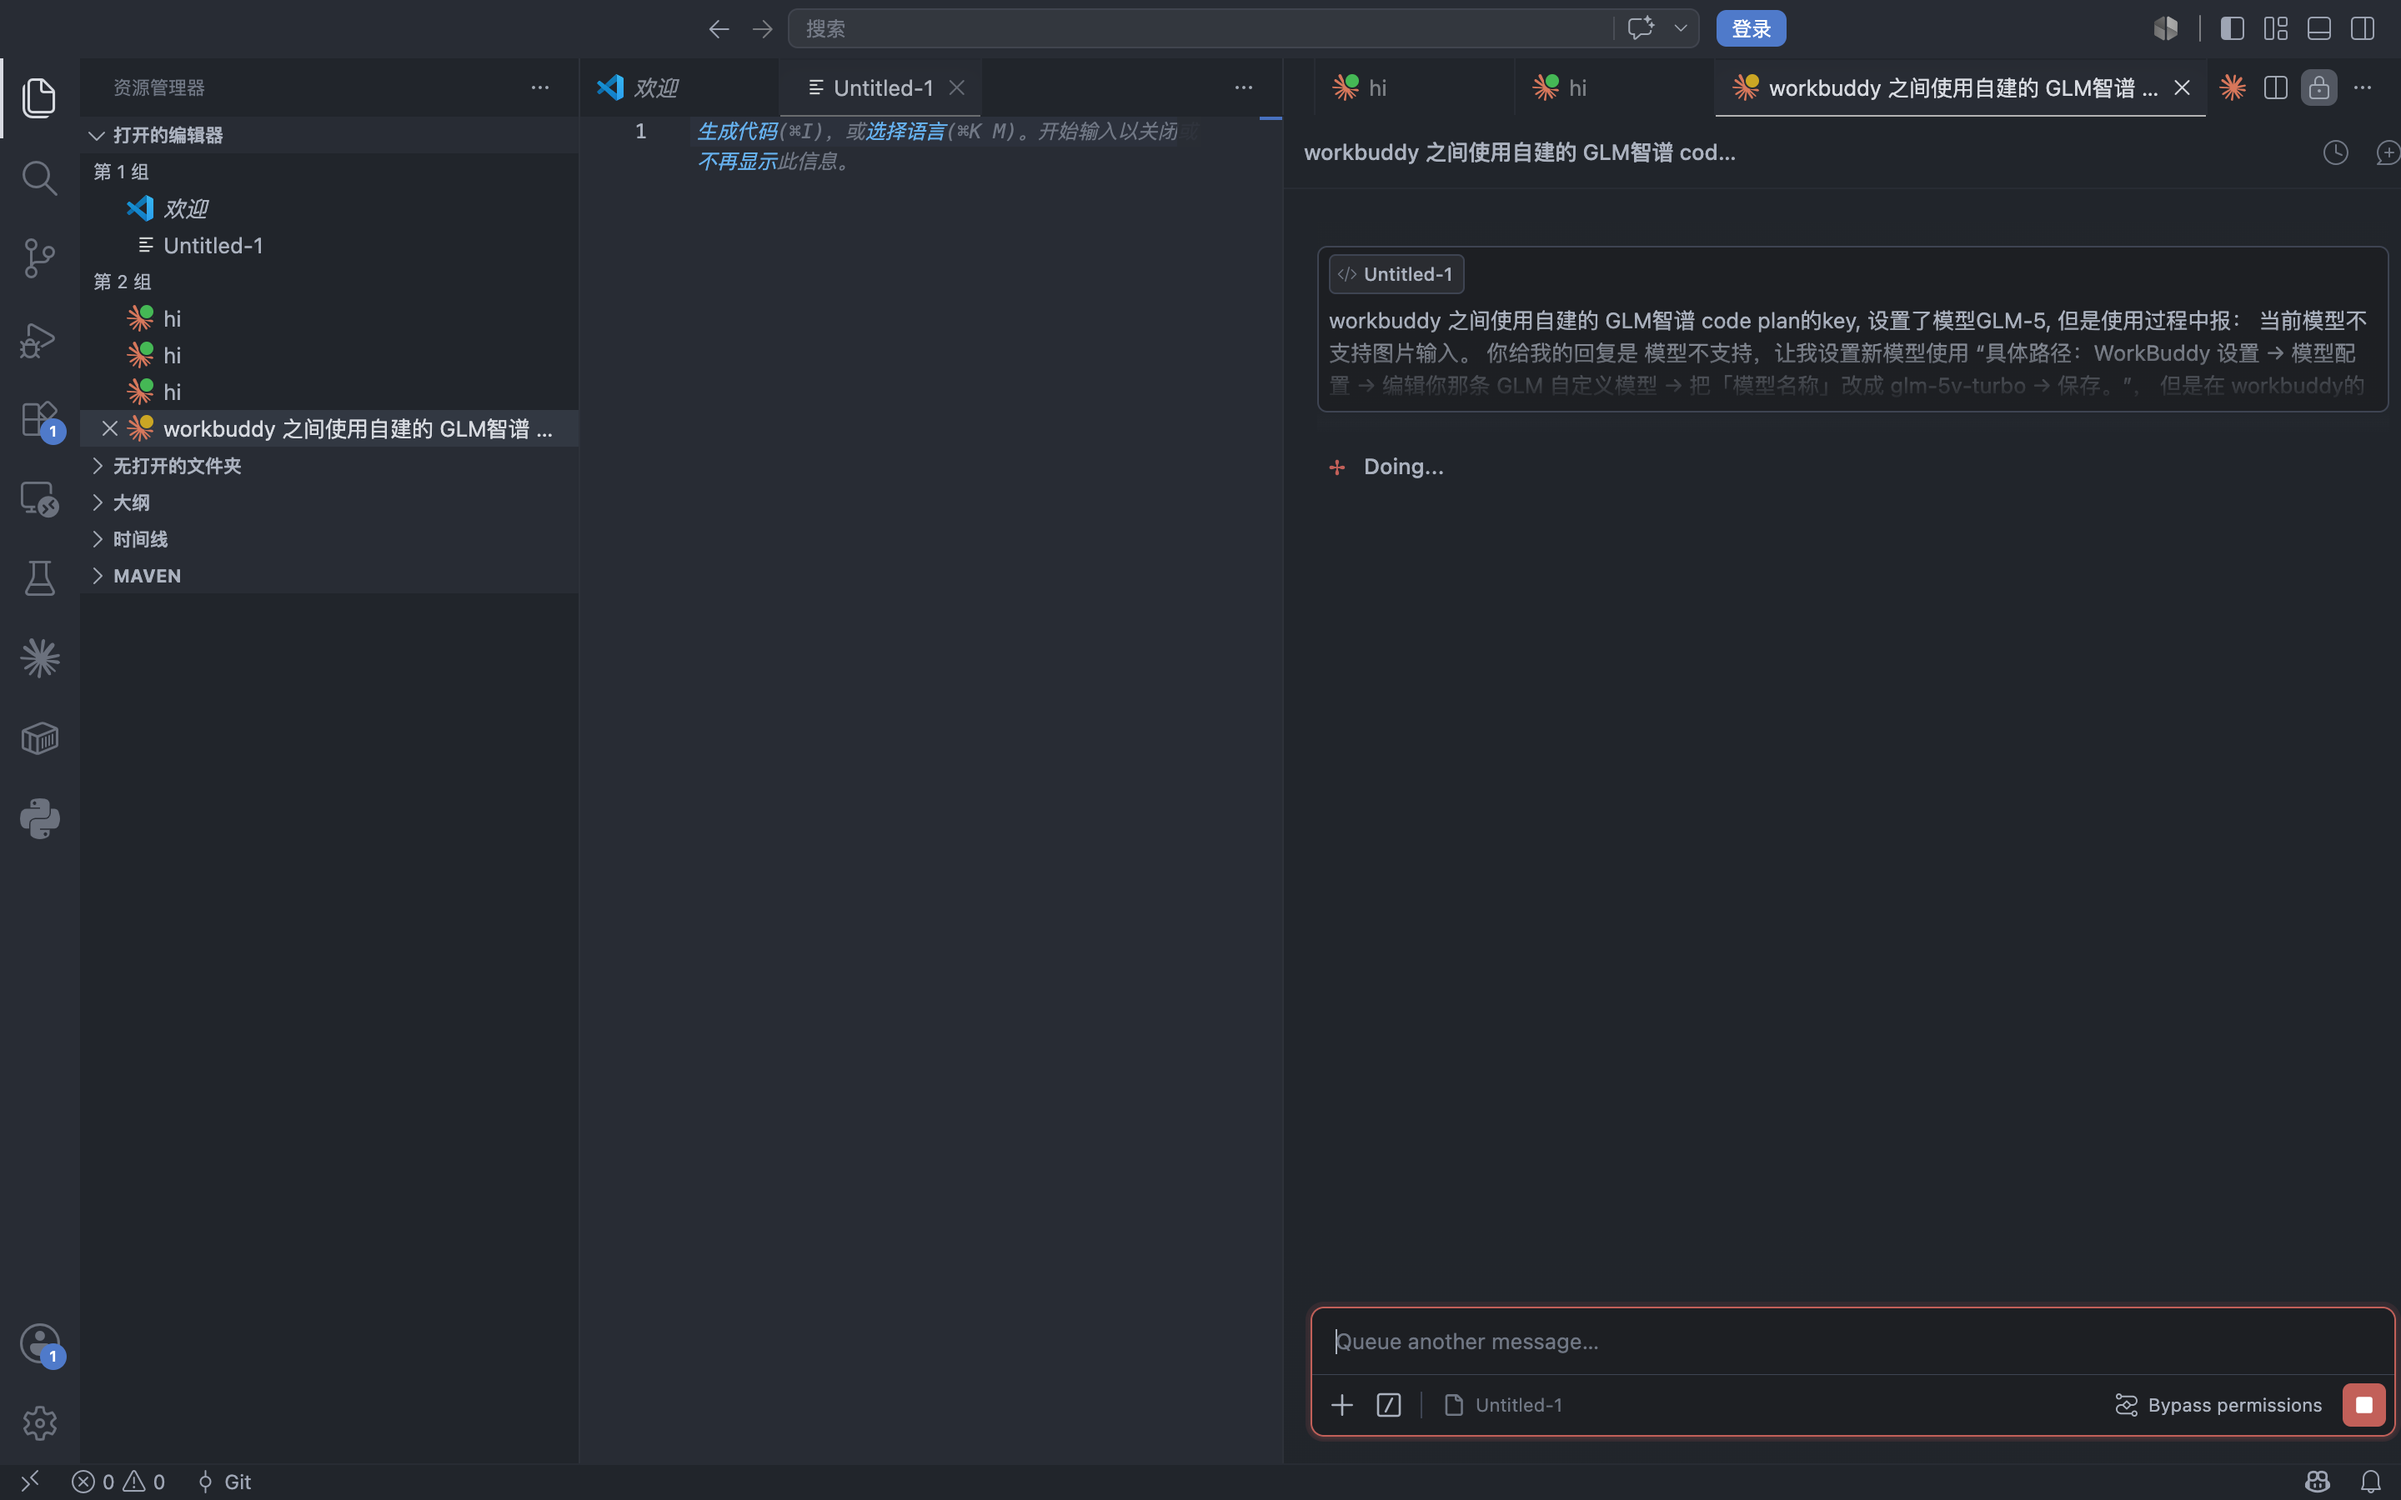
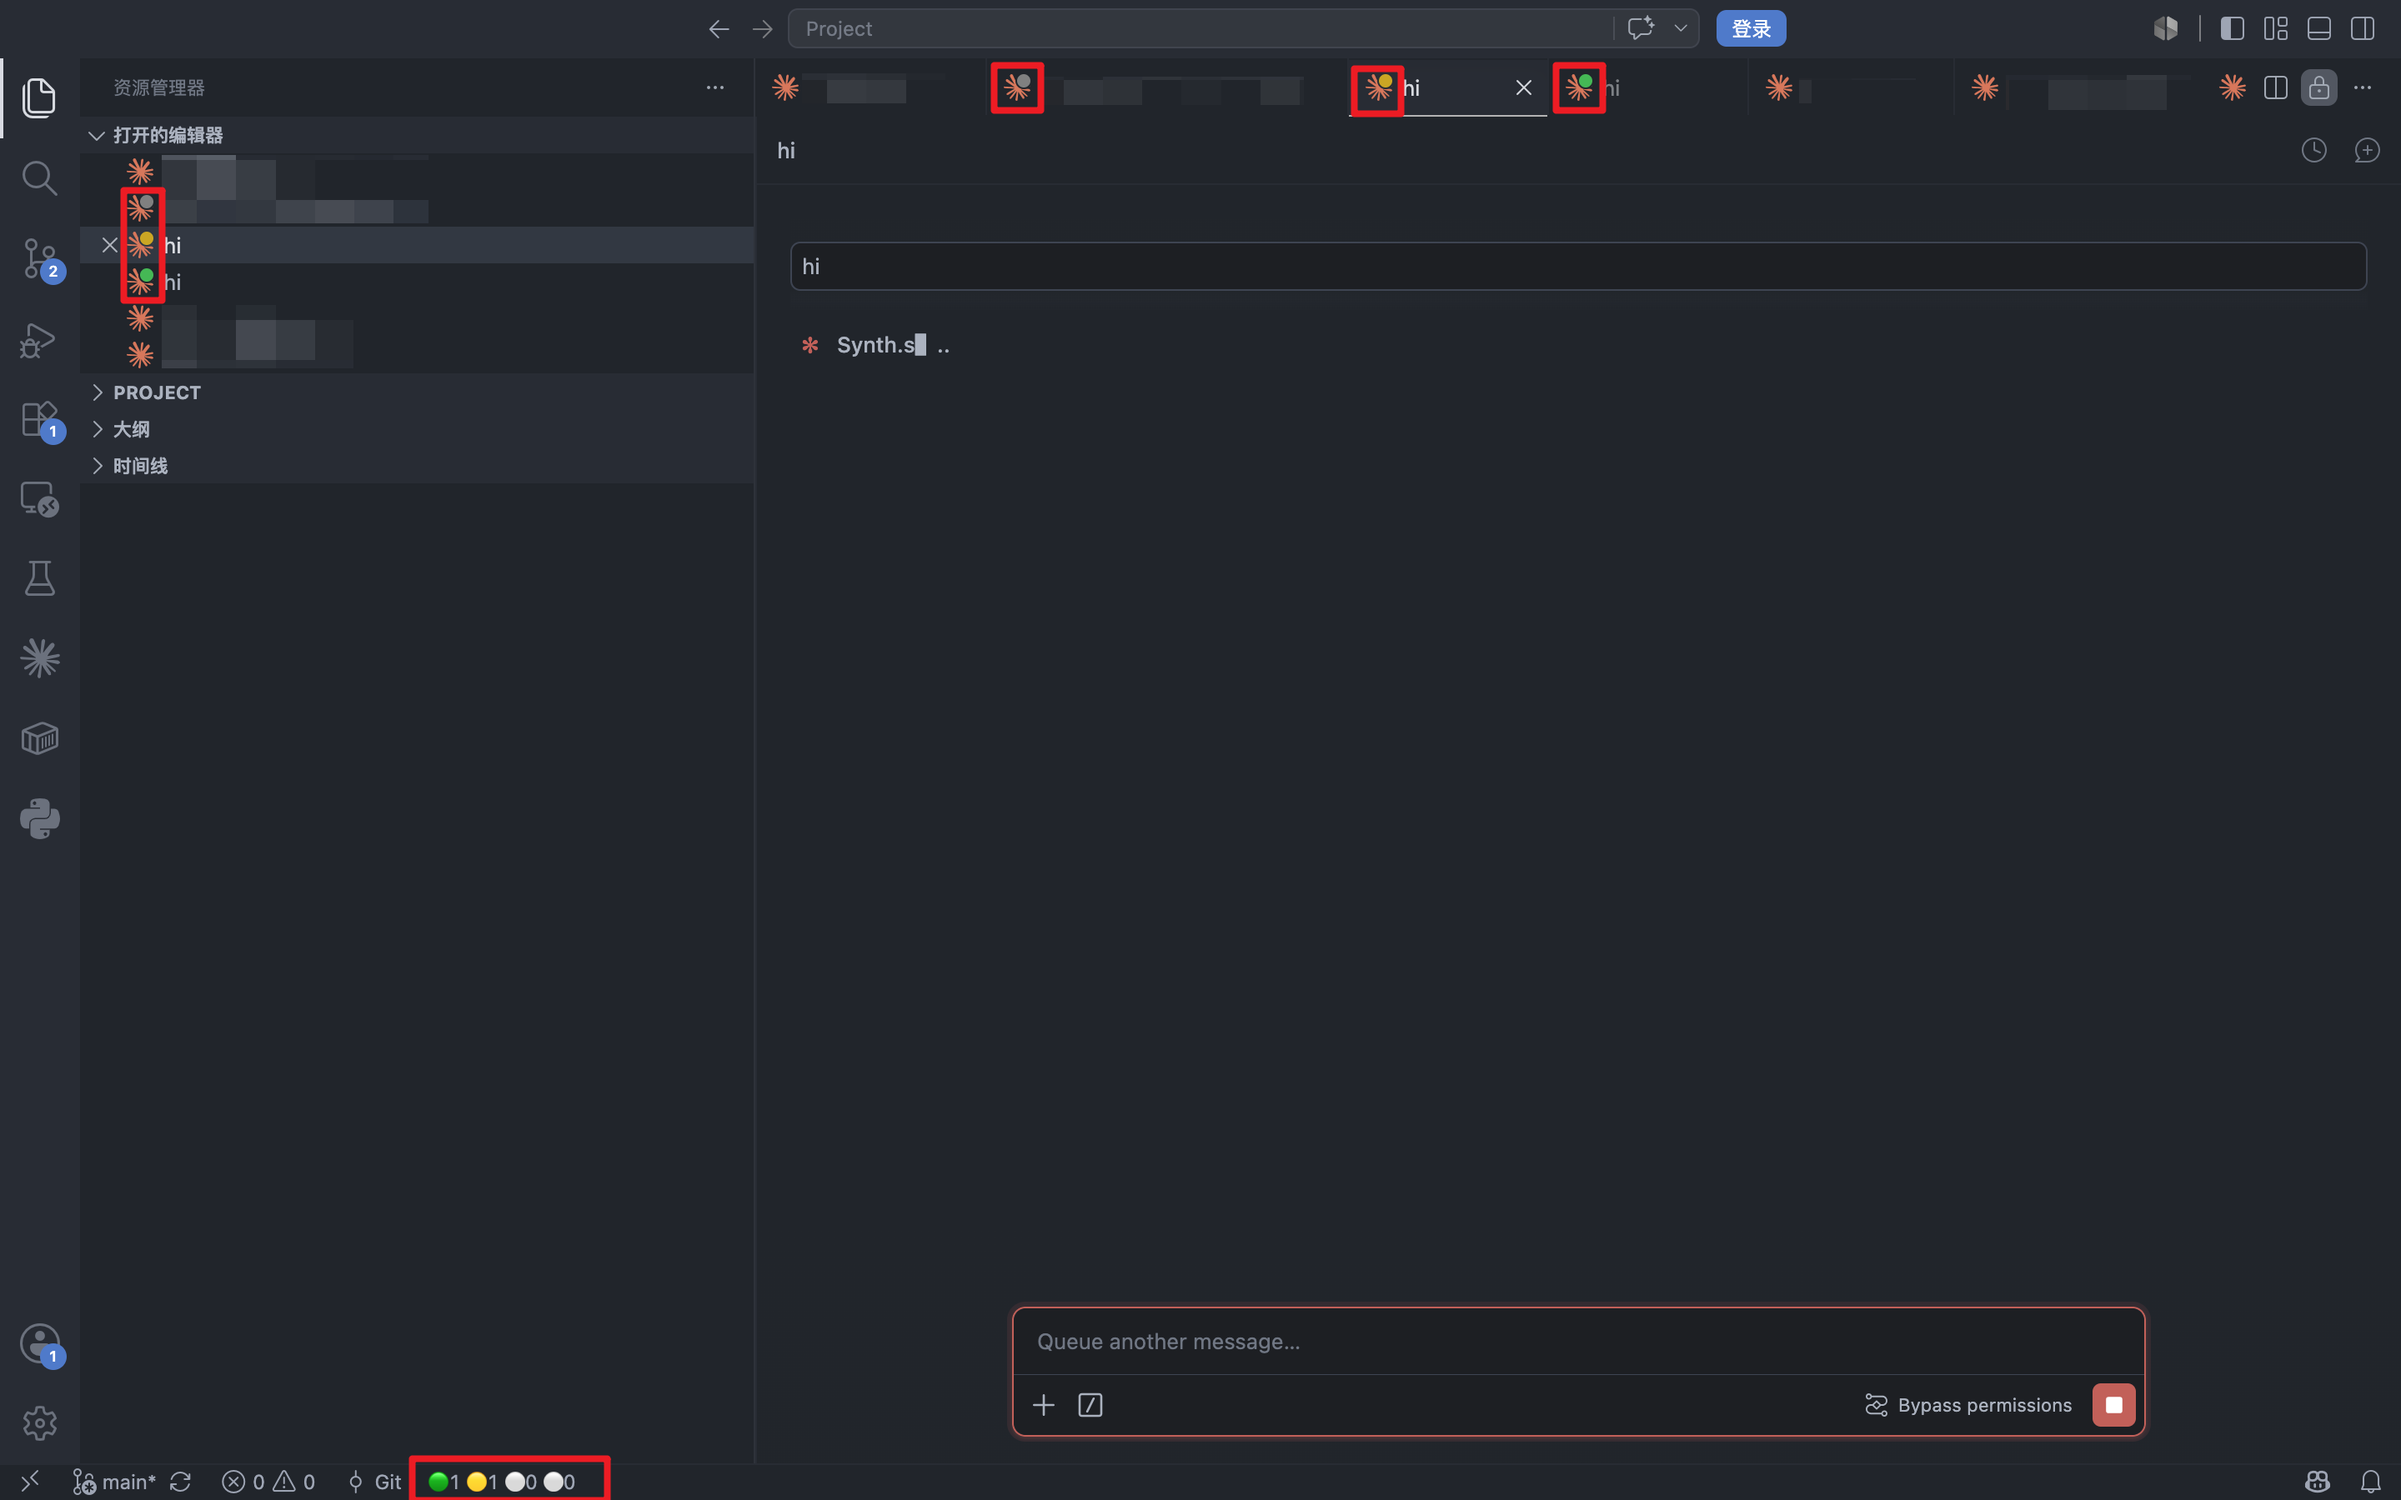
docs: replace status-dots.png with richer shot (tab + sidebar + bottom 4-light); remove redundant

diff --git a/README.de.md b/README.de.md
@@ -38,7 +38,7 @@ Wenn du mehrere Claude Code Sessions gleichzeitig laufen hast, musst du nicht me
 
 *macOS-Systembenachrichtigung mit Glass-Ton, wenn die Session fertig wird oder unterbrochen wird — auch wenn VSCode im Vordergrund ist.*
 
-<!-- TODO Screenshot nachreichen: Vier-Lichter-Block in der unteren Statusleiste (🟢🟡🔵🔴 + Ziffern) — neue Visualisierung, noch nicht im docs/images/-Ordner vorhanden. Gern als docs/images/status-bar-4-lights.png ergänzen. -->
+
 
 </div>
 

diff --git a/README.pt.md b/README.pt.md
@@ -31,7 +31,7 @@
 
 *Notificação do sistema + som quando a sessão termina*
 
-<!-- SCREENSHOT-TODO: adicionar docs/images/status-bar-4-lights.png mostrando o bloco de 4 luzes agregadas (🟢🟡🔵🔴 com contagem) na barra de status inferior. Sugestão de captura: tenha 2+ sessões em estados diferentes (uma rodando, uma concluída, um pedido de permissão pendente) para mostrar as 4 luzes acesas lado a lado. -->
+
 
 </div>
 

diff --git a/README.ja.md b/README.ja.md
@@ -41,7 +41,7 @@ Claude Code を複数タブで同時に開いていて、**「いまどのタブ
 
 **セッション完了時の macOS システム通知 + サウンド**
 
-<!-- スクリーンショット候補: 下部ステータスバーの 4 ライト集計ビュー（status-bar-4-lights.png）を追加すると、新しい集計機能をより直感的にアピールできます -->
+
 
 </div>
 

diff --git a/README.es.md b/README.es.md
@@ -47,8 +47,7 @@ Este proyecto resuelve eso. Tras instalarlo:
 
 <br>
 
-<!-- TODO: añadir captura de la barra de estado inferior con las 4 luces agregadas (🟢 done · 🟡 running · 🔵 pending · 🔴 interrupted). -->
-<!-- Sugerencia: doc/docs/images/status-bar-4-lights.png — un recorte de la esquina inferior izquierda con las 4 luces y sus números. -->
+
 
 </div>
 
